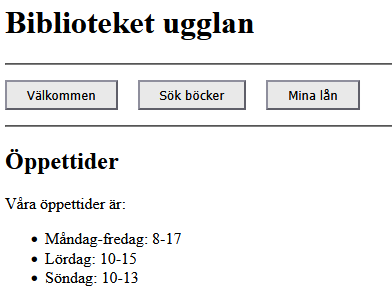
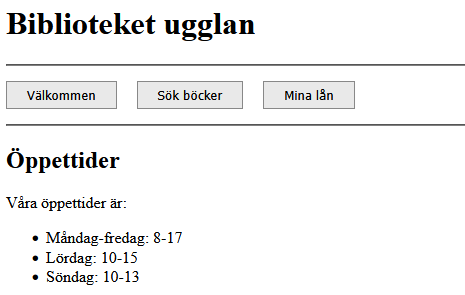
Commit after finalizing task 2:2

diff --git a/recept/index.html b/recept/index.html
@@ -1,0 +1,50 @@
+<!DOCTYPE html>
+<html lang="sv">
+    <head>
+        <meta charset="UTF-8">
+        <title>Mats pannkakor</title>
+        <link rel="stylesheet" href="style.css">
+    </head>
+
+    <body>
+        <header>
+            <h1 id="stor-rubrik">Mats goda favoriter</h1>
+        </header>
+
+        <main>
+            <h1>Godaste Lyxpannkakor</h1>
+            <img src="images/pannkakor.png" alt="Godaste lyxpannkakor">
+            <p>De här pannkakorna lagade min mamma till oss barn då vi kom hem från fotbollsträningen. 
+                De serverades med säsongens bär och nyvispad grädde.</p> 
+                <p>Nu är det jag som lagar dem och serverar mina barn och barnbarn som äter dem med 
+                    glupande aptit. </p>
+
+            <h2>Ingredienser</h2>
+            <ul>
+                <li>2,5 dl vetemjöl</li>
+                <li>1/2 tsk Salt</li>
+                <li>6 dl Mjölk</li>
+                <li>3 ägg></li>
+                <li>100 g Smält smör</li>
+                <li>Bär, frukt eller sylt till servering</li>
+            </ul>
+
+            <h2>Tillagning</h2>
+            <ol>
+                <li>Smält smöret och blanda det med mjölken</li>
+                <li>Blanda mjöl och salt i en bunke</li>
+                <li>Vispa i hälften av mjölkblandningen och vispa till en slät smet</li>
+                <li>Vispa i resten av mjölken och äggen></li>
+                <li>Låt smeten vila i 10 minuter</li>
+                <li>Stek tunna pannkakor i smält smör</li>
+                <li>Severa med färska bär, frukt eller sylt och nyvispad grädde</li>
+            </ol>
+        </main>
+
+        <footer>
+            <div>
+                <h3>Det goda här i livet gjort enkelt...</h3>
+            </div>
+        </footer>
+    </body>
+</html>

diff --git a/recept/style.css b/recept/style.css
@@ -1,0 +1,45 @@
+/* COMMON */
+
+* {
+    box-sizing: border-box;
+}
+
+body {
+    margin: 0;
+    font-family: Calibri, Arial, sans-serif;
+    min-height: 100vh;
+    display: flex;
+    flex-direction: column;
+}
+
+header {
+    background-color: #2c3e50;
+    color: white;
+    padding: 20px;
+}
+
+main {
+    flex: 1;
+    padding: 20px;
+}
+
+main p {
+    width: 500px;
+}
+
+footer {
+    background-color: #2c3e50;
+    color: white;
+    padding: 10px;
+}
+
+/* STOR RUBRIK*/
+
+#stor-rubrik {
+    font-size: 60px;
+    margin-top: 5px;
+    margin-bottom: 5px;
+}
+
+
+

diff --git a/README.md b/README.md
@@ -41,7 +41,7 @@ Ok
 
 ## 2⃣ Öva på HTML
 
-1. Bygg en webbsida för biblioteket ugglan  
+### 1. Bygg en webbsida för biblioteket ugglan  
 
 Mitt resultat:
 
@@ -52,3 +52,13 @@ Länk till hemsidan byggd på min kod:
 <a href="https://matsan66.github.io/06_webben/ugglan/">
     <strong>📚 Biblioteket Ugglan</strong>
 </a>
+<hr>
+
+### 2. Bygg en webbsida som innehåller ett recept
+
+Länk till hemsidan byggd på min kod:
+
+<a href="https://matsan66.github.io/06_webben/recept/">
+    <strong>📚 Godaste lyxpannkakor</strong>
+</a>
+<hr>
